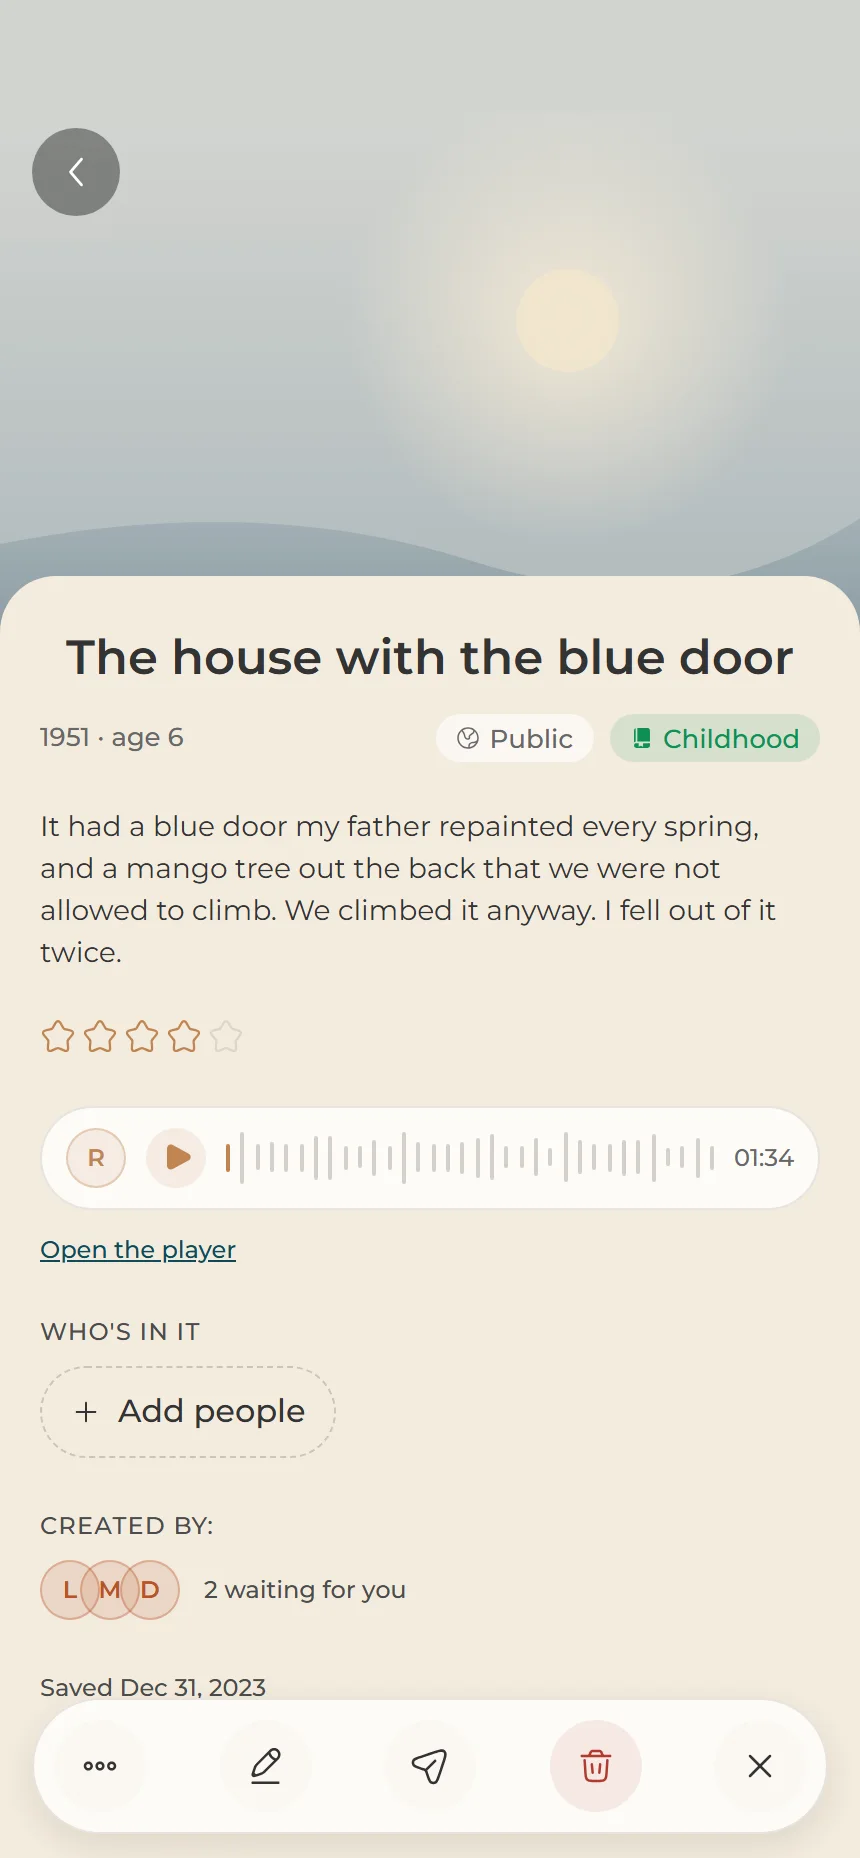
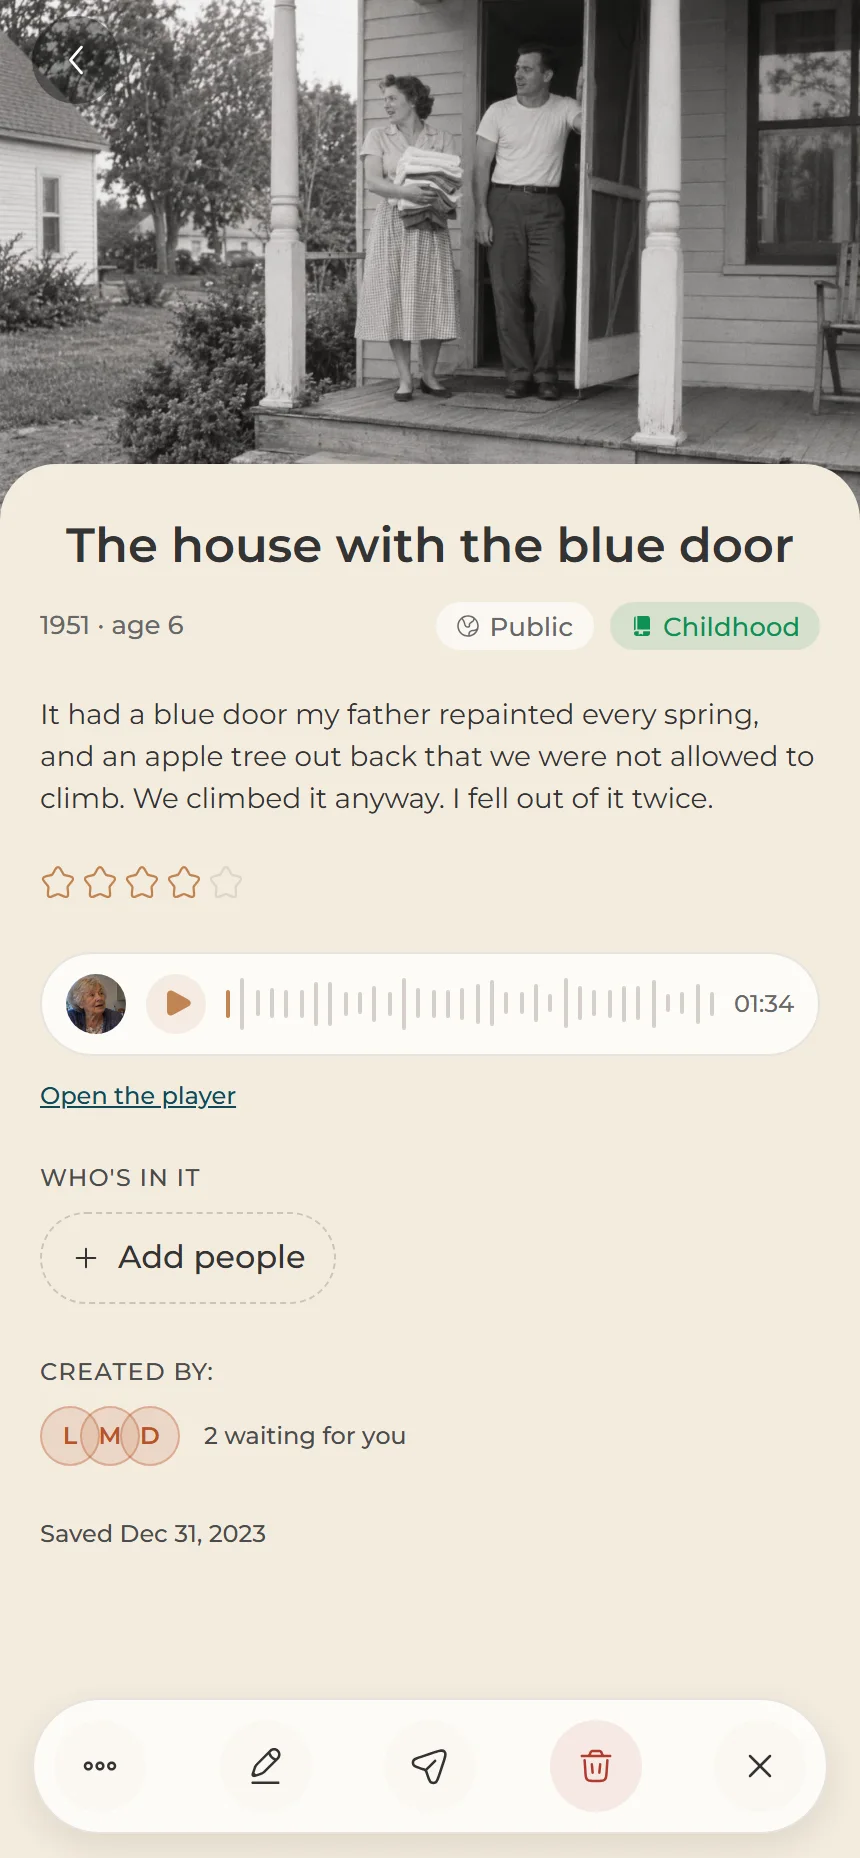
App screens: the Miller demo family, with real photos and faces
Recaptured from the app at review-fixes ac315b9, where the demo family is
now Rose Miller of Dayton, Ohio and San Jose (was Rose Nguyen of Đà Lạt),
with faces on Rose, Walter, Linda, David, Jamie and Margaret and real
archive photos on the memories. The group call is now a call in progress
- Rose, Linda, Jamie and David on video, "Mom, tell them how you met Dad"
underneath - rather than the empty picker. Screens whose top is a photo
(memory, family tree) are captured full height so the frame's status bar
sits over the picture, and dark-topped ones get a light status bar.

diff --git a/src/pages/site/app/Phone.tsx b/src/pages/site/app/Phone.tsx
@@ -232,7 +232,7 @@ const ShotBand = styled.span`
 
 /**
  * A screen of the app (public/app). Since 2026-10-09 these are captured from
- * the app itself (review-fixes 21f0365, Expo web) - see kit/AppTour.tsx;
+ * the app itself (review-fixes ac315b9, the Miller demo family, Expo web) - see kit/AppTour.tsx;
  * only player.webp is still from the founder's Figma file, because the voice
  * player is in development. The HTML screens in screens.tsx are for moments
  * no capture shows (the incoming call, a call in progress).

diff --git a/src/pages/site/home/EasiestWay.tsx b/src/pages/site/home/EasiestWay.tsx
@@ -170,12 +170,14 @@ const WAYS: Way[] = [
 const TOUR: TourStop[] = [
   {
     shot: "group-call",
+    dark: true,
     k: "Group calls",
     t: "Call the family together.",
     d: "Up to four phones at once. Everyone talks; A Story listens and turns what’s said into memories.",
   },
   {
     shot: "family",
+    dark: true,
     k: "The family tree",
     t: "Everyone she’d talk about.",
     d: "Parents, partners and children on one tree. Tap a name to add or fix it.",

diff --git a/src/pages/site/Families.tsx b/src/pages/site/Families.tsx
@@ -391,7 +391,7 @@ function TogetherRoom() {
           {TOGETHER.map((t) => (
             <div key={t.shot} className="col" data-rise>
               <div className="stage">
-                <Phone width="min(320px, 88%)" lightStatus={t.shot === "home"}>
+                <Phone width="min(320px, 88%)" lightStatus={t.shot === "group-call" || t.shot === "family"}>
                   <AppShot name={t.shot} scroll={t.scroll} />
                 </Phone>
               </div>

diff --git a/src/pages/site/HowItWorks.tsx b/src/pages/site/HowItWorks.tsx
@@ -80,6 +80,7 @@ const WAYS_IN: TourStop[] = [
   },
   {
     shot: "group-call",
+    dark: true,
     k: "Together",
     t: "Call the family together.",
     d: "Up to four phones on one call. Everyone talks, and A Story keeps what’s said.",
